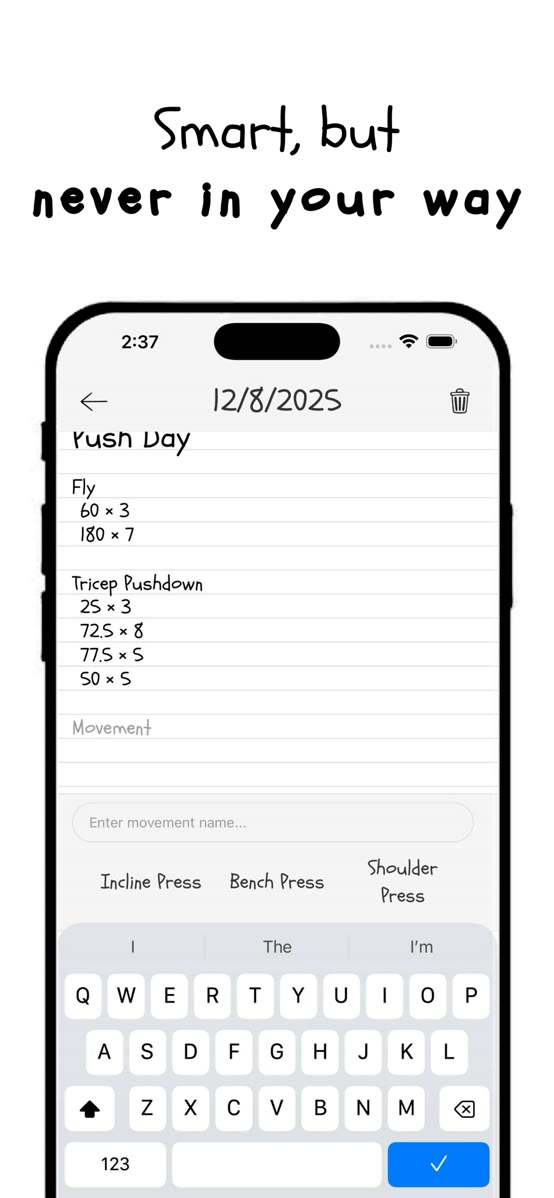
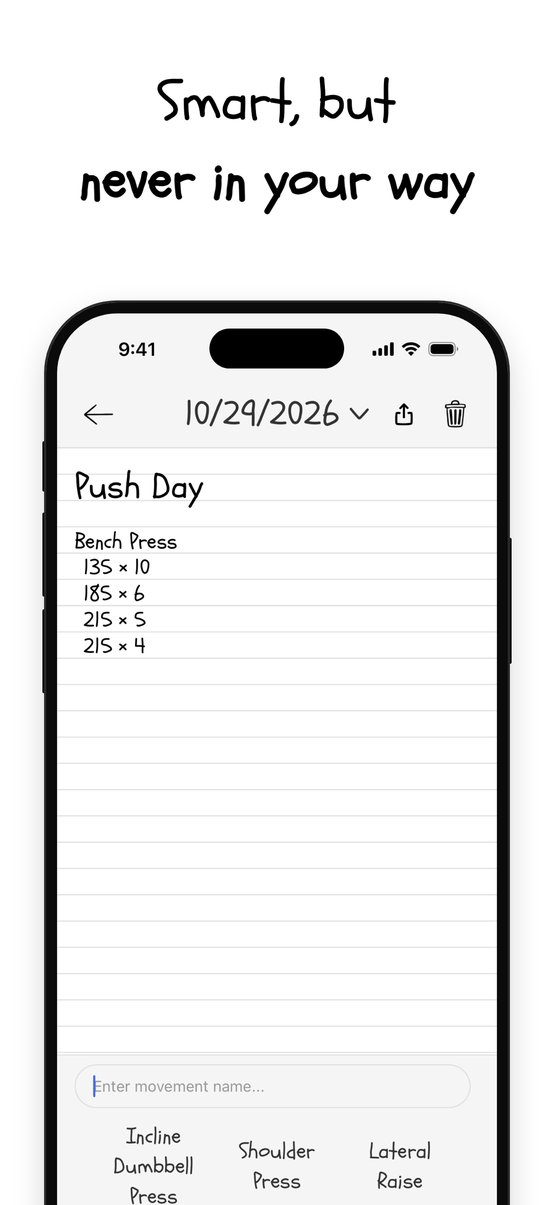
liftbook: sharing, 1.1 screenshots, link lesson
- New "Sharing without a server" section: notebook-page share images,
  the lift packed into the link fragment, per-app share wording
- Eight 1.1.0 App Store screenshots in a four-column grid; feature image
  rebuilt from the new shots
- Stack and lessons updated (react-native-view-shot, share tests,
  "Every app has its own idea of a link")

diff --git a/projects/liftbook.html b/projects/liftbook.html
@@ -4,7 +4,7 @@
 <meta charset="UTF-8">
 <meta name="viewport" content="width=device-width, initial-scale=1.0">
 <title>liftbook — Noah Dorfman</title>
-<meta name="description" content="A lifting log for iPhone that works like a paper notebook. Type a movement, type your sets, and it tells you what you did last time. No accounts, no cloud.">
+<meta name="description" content="A lifting log for iPhone that works like a paper notebook. Type a movement, type your sets, and it tells you what you did last time. Share a lift as a notebook page. No accounts, no cloud.">
 <link rel="icon" href="/favicon.ico?v=2" sizes="32x32">
 <link rel="icon" href="/assets/favicon.svg?v=2" type="image/svg+xml">
 <link rel="apple-touch-icon" href="/assets/apple-touch-icon.png?v=2">
@@ -32,7 +32,7 @@
             <p class="dek">A lifting log for iPhone that works like a paper notebook: type a movement, type your sets, and it quietly tells you what you did last time.</p>
             <dl class="facts">
                 <dt>Year</dt><dd>2025, in the App Store since 2026</dd>
-                <dt>Made with</dt><dd>React Native, TypeScript, AsyncStorage, react-native-svg</dd>
+                <dt>Made with</dt><dd>React Native, TypeScript, AsyncStorage, react-native-svg, a little Objective-C</dd>
                 <dt>Links</dt><dd><a class="link" href="https://apps.apple.com/us/app/liftbook-strength-log/id6755925820">App Store</a><a class="link" href="https://liftbookapp.com">Live site</a><a class="link" href="https://github.com/NoahDorfman00/liftbook">Source on GitHub</a></dd>
             </dl>
         </div>
@@ -65,13 +65,19 @@
             <p>Every lift lives on the device as one JSON blob in AsyncStorage. No accounts, no server. <code>liftStore.ts</code> reads it once per launch, serves everything from memory, and writes back through a serialized queue so fast edits can't interleave.</p>
             <p>That makes the phone the only copy, so the store is paranoid. A corrupt blob gets copied to a backup key before starting fresh, and if the backup or the read itself fails, the app runs in memory for that session and refuses to write.</p>
 
+            <h3>Sharing without a server</h3>
+            <p>A lift or a chart can be shared as an image of a notebook page: one row per movement, a pencil-hatched bar for each set, the top set on the right, and 🔥 on a PR. The layout is pure geometry, measured against the handwritten font's real glyph widths, then drawn off-screen and captured. Every share makes a 9:16 story and a 3:4 card for Messages, which crops anything taller.</p>
+            <p>The lift itself travels inside the link: <code>liftbookapp.com/l#v1=…</code>, packed into the URL fragment. Nothing is hosted, nothing expires, and fragments never reach a server. Tapping it opens a preview with <b>Try this lift</b>, which copies the movements into a new page and shows the sharer's numbers as a hint while you log your own.</p>
+            <p>The share sheet is a small native module that words the message per app. Messages gets the card and <code>Try it ↓</code>; Instagram and Snapchat drop shared text, so they get the App Store link on the clipboard for a link sticker instead.</p>
+
             <h3>Stack</h3>
             <div class="parts">
                 <div><span class="p">React Native 0.80</span><span class="d">TypeScript, Fabric, Hermes</span></div>
                 <div><span class="p">AsyncStorage</span><span class="d">One JSON blob, no backend</span></div>
-                <div><span class="p">react-native-svg</span><span class="d">Hand-drawn charts and the ruled lines</span></div>
+                <div><span class="p">react-native-svg</span><span class="d">Hand-drawn charts, share images and the ruled lines</span></div>
                 <div><span class="p">react-native-keyboard-controller</span><span class="d">Keeps the footer on the keyboard, plus a small patch to React Native</span></div>
-                <div><span class="p">Jest</span><span class="d">The store and the suggestion engine</span></div>
+                <div><span class="p">react-native-view-shot</span><span class="d">Captures the share images</span></div>
+                <div><span class="p">Jest</span><span class="d">The store, the suggestion engine, the share link and both share layouts</span></div>
             </div>
         </div>
     </section>
@@ -79,14 +85,17 @@
     <section class="row">
         <div class="label">Screens</div>
         <div>
-            <div class="phones">
+            <div class="phones four">
                 <img src="/assets/projects/liftbook/screen-1.jpg" alt="App Store screenshot: the list of lifts, one dated row per workout, under the headline 'Finally, an uncomplicated fitness app'">
-                <img src="/assets/projects/liftbook/screen-2.jpg" alt="App Store screenshot: a Push Day page with sets logged under Fly and Tricep Pushdown, and movement suggestions above the keyboard">
-                <img src="/assets/projects/liftbook/screen-3.jpg" alt="App Store screenshot: the charts screen plotting max, average and min weight for Rope Tricep Pushdown">
-                <img src="/assets/projects/liftbook/screen-4.jpg" alt="App Store screenshot: entering weight and reps for Rope Tricep Pushdown with a 'last time' note under the input">
-                <img src="/assets/projects/liftbook/screen-5.jpg" alt="App Store screenshot: an empty list with a hand-drawn arrow pointing to the plus button and the liftbook logo">
+                <img src="/assets/projects/liftbook/screen-2.jpg" alt="App Store screenshot: a Push Day page with Bench Press sets and movement suggestions above the keyboard">
+                <img src="/assets/projects/liftbook/screen-3.jpg" alt="App Store screenshot: entering weight for Incline Dumbbell Press with a 'last time' note under the input">
+                <img src="/assets/projects/liftbook/screen-4.jpg" alt="App Store screenshot: the charts screen plotting max, average and min weight for Bench Press">
+                <img src="/assets/projects/liftbook/screen-5.jpg" alt="App Store screenshot: a Push Day share image, one row per movement with hatched pencil bars, the top set and fire emoji on PRs">
+                <img src="/assets/projects/liftbook/screen-6.jpg" alt="App Store screenshot: the share card sent in Messages with a 'Try it' link, and a friend replying that they're doing it tomorrow">
+                <img src="/assets/projects/liftbook/screen-7.jpg" alt="App Store screenshot: a Push Day page in dark mode">
+                <img src="/assets/projects/liftbook/screen-8.jpg" alt="App Store screenshot: an empty list with a hand-drawn arrow pointing to the plus button, captioned 'log your first lift'">
             </div>
-            <p class="cap">The App Store screenshots. Yes, the font is the whole personality.</p>
+            <p class="cap">The App Store screenshots for 1.1. Yes, the font is the whole personality.</p>
         </div>
     </section>
 
@@ -97,6 +106,7 @@
             <li><span class="n">2</span><div><h4>Sometimes the bug is in node_modules</h4><p>The keyboard flickered on every mode switch because Fabric skips a <code>reloadInputViews</code> call, so I patched it back in.</p></div></li>
             <li><span class="n">3</span><div><h4>One state value beats five flags</h4><p>Collapsing the editor's focus logic into one descriptor deleted a pile of timers and race conditions.</p></div></li>
             <li><span class="n">4</span><div><h4>Local-only means you are the backup</h4><p>With no server copy, the store would rather not write than overwrite something it can't read.</p></div></li>
+            <li><span class="n">5</span><div><h4>Every app has its own idea of a link</h4><p>Messages stops recognizing a link at about 630 characters, Instagram's link sticker rejects long ones outright, and X's in-app browser ignores <code>liftbook://</code>. So the share text is worded per destination.</p></div></li>
         </ol>
     </section>
 

diff --git a/css/site.css b/css/site.css
@@ -204,6 +204,7 @@ footer { display: flex; justify-content: space-between; padding: 28px 0 40px; fo
 
 /* Phone screenshots */
 .phones { display: grid; grid-template-columns: repeat(5, minmax(0, 1fr)); gap: 14px; margin-top: 24px; }
+.phones.four { grid-template-columns: repeat(4, minmax(0, 1fr)); }
 .phones img { width: 100%; aspect-ratio: 1284 / 2778; object-fit: cover; display: block; border: 0.5px solid var(--hair); }
 
 /* Prose */
@@ -269,7 +270,7 @@ code { font-family: var(--mono); font-size: .88em; background: var(--paper-2); p
     .top, .top.still { grid-template-columns: 1fr; gap: 40px; padding-bottom: 48px; }
     .clip { max-width: 280px; }
     .grid2, .lessons { grid-template-columns: 1fr; }
-    .phones { grid-template-columns: repeat(2, minmax(0, 1fr)); }
+    .phones, .phones.four { grid-template-columns: repeat(2, minmax(0, 1fr)); }
     .states div { grid-template-columns: 24px minmax(0, 1fr); }
     .states .m { grid-column: 2; color: var(--ink-2); font-size: 14px; }
     .parts div { grid-template-columns: 1fr; gap: 2px; }

diff --git a/index.html b/index.html
@@ -51,7 +51,7 @@
         <div class="label">Selected work</div>
         <div>
             <div class="feature">
-                <figure><a href="/projects/liftbook.html"><img src="/assets/projects/liftbook/feature.jpg" alt="Three liftbook screens: the list of lifts, a workout being logged like a notebook page, and a progress chart"></a></figure>
+                <figure><a href="/projects/liftbook.html"><img src="/assets/projects/liftbook/feature.jpg" alt="Three liftbook screens: the list of lifts, a set being logged with a 'last time' note, and a workout shared as a notebook-page image"></a></figure>
                 <div>
                     <h3><a href="/projects/liftbook.html">liftbook</a></h3>
                     <p>A lifting log for iPhone that works like a paper notebook: type a movement, type your sets, and it quietly tells you what you did last time. My first app in the App Store, built because every fitness tracker I tried was bloated.</p>
